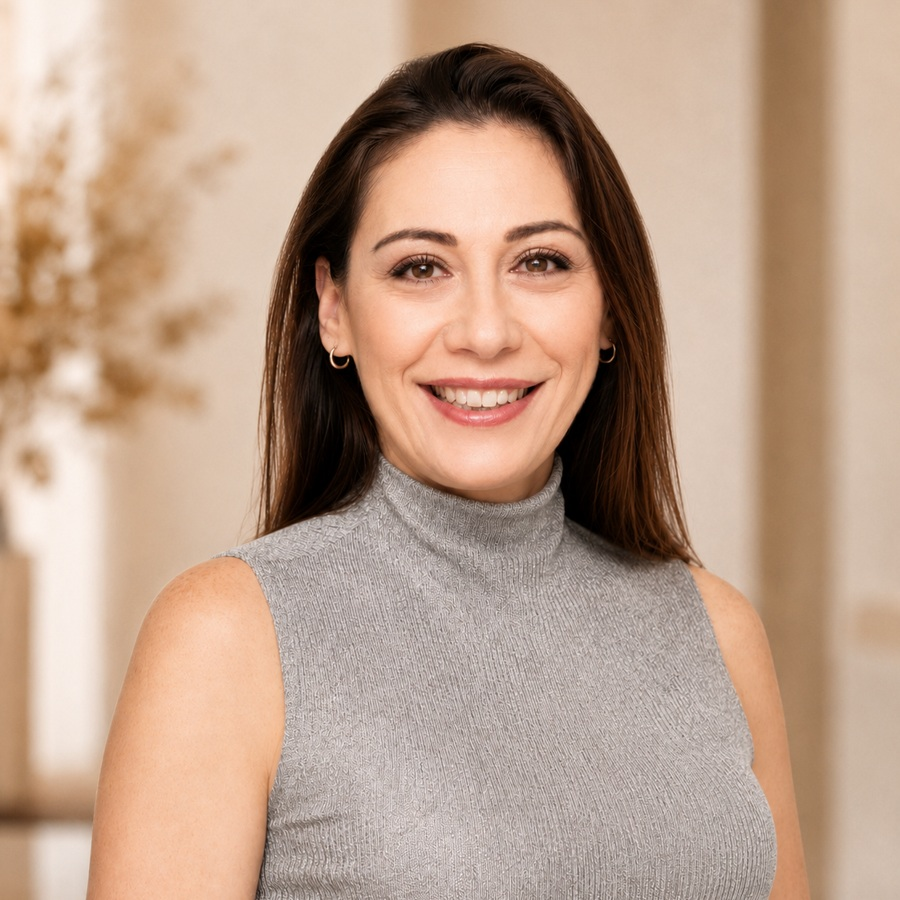
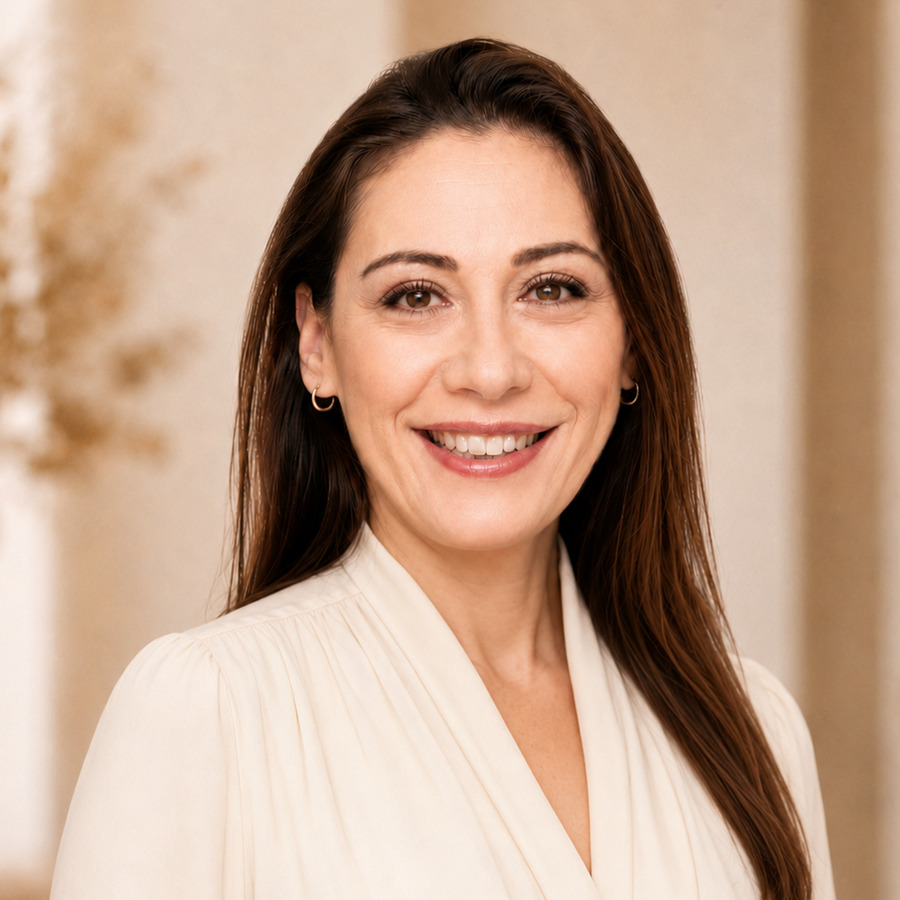
Add files via upload

diff --git a/index.html b/index.html
@@ -332,7 +332,7 @@
 <article class="team-card">
 <img alt="Marian Garci-Crespo" class="team-photo" src="assets/images/team/marian-garci-crespo.jpg"/>
 <h3>Marian Garci-Crespo</h3>
-<p class="team-title">Principal, Marketing and Operations</p>
+<p class="team-title">Principal, Marketing and Project Director</p>
 <p>Marian leads marketing, operations, CRM organization, and client experience support for the Mexico sales operation.</p>
 </article>&gt;
         </div>

diff --git a/LAUNCH-NOTES.md b/LAUNCH-NOTES.md
@@ -228,4 +228,8 @@ Optimized hero video and poster image added. See HERO-VIDEO-NOTES.md.
 
 - Updated dark-background logo treatment to a clean beige-and-copper embroidered version matching the approved threaded style.
 
-- Added Ashok to the About page as Founder and CEO of Atlas Global, with a new professional profile image.
+- Added Ashok Mahtani to the About page as Founder and CEO of Atlas Global, with a new professional profile image.
+
+- Updated Marian Garci-Crespo’s title to Principal, Marketing and Project Director.
+
+- Updated Ashok’s name to Ashok Mahtani across site materials.
